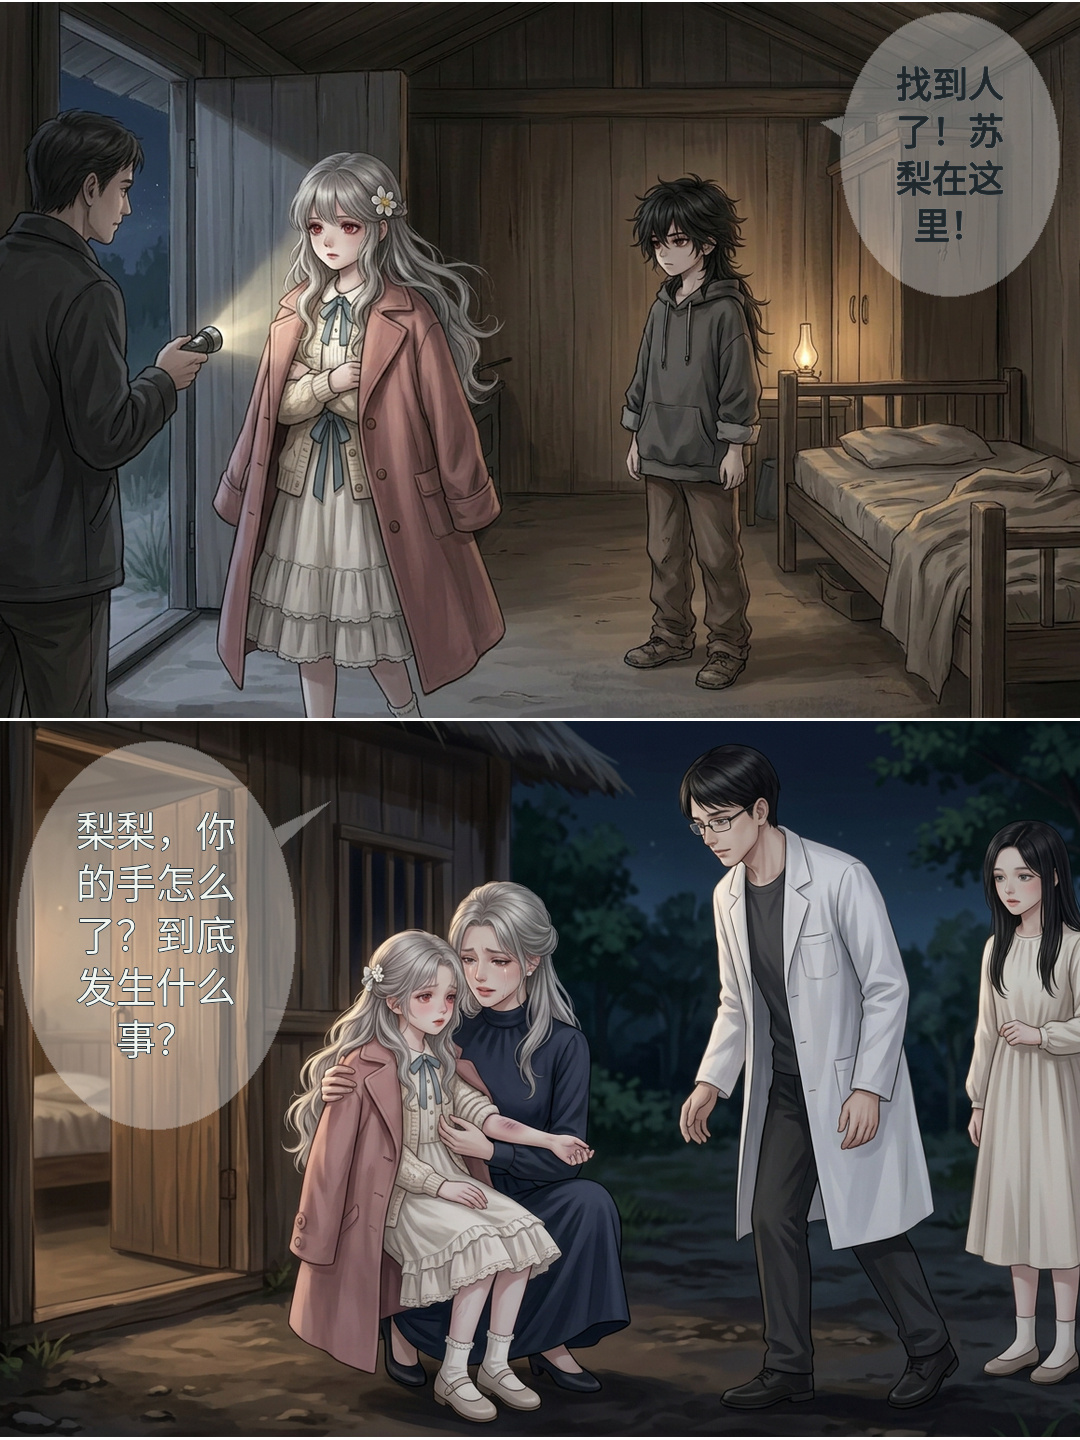
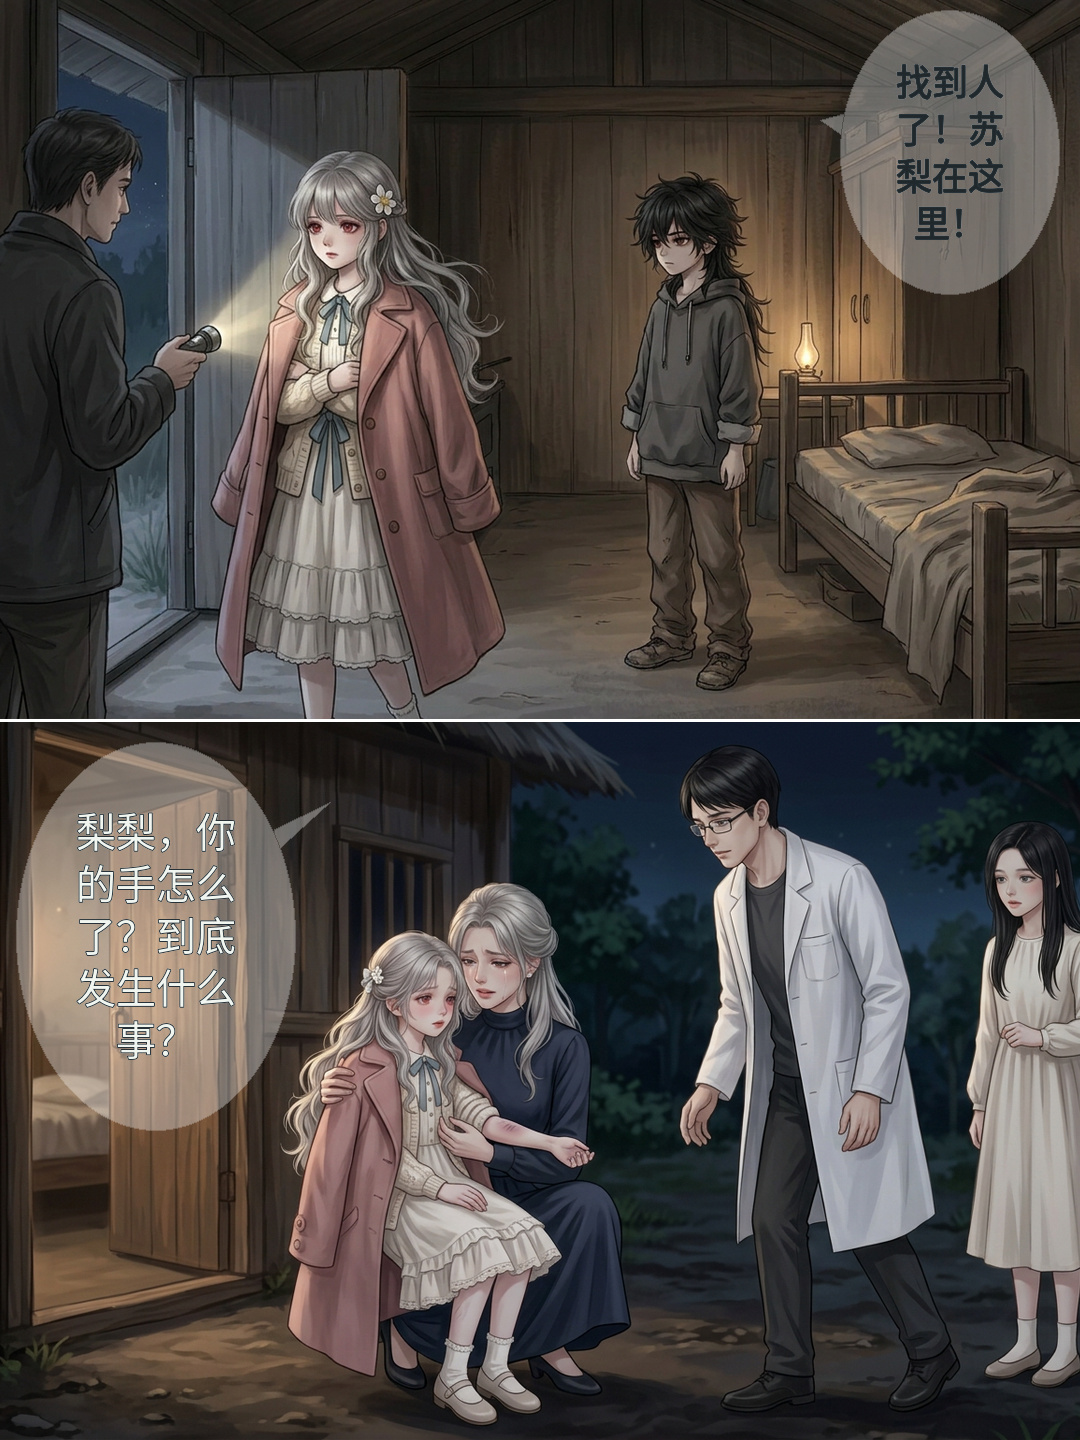
第八轮：P005/P006/P012满幅消余白（0新模型调用）；登记填满指示与待确认重出批次

diff --git a/漫画改编/开篇修订/第002话/制作成果/画内贴字-v5-续/看图说明.md b/漫画改编/开篇修订/第002话/制作成果/画内贴字-v5-续/看图说明.md
@@ -10,21 +10,21 @@ PAGE-001 仍缺 PANEL-001-02（前世回忆造型/口径未定），故本集不
 | 页 | 行结构（高/插入） | 贴字与尾巴 |
 |---|---|---|
 | P004 | 470/470/494 三条全幅 | r1 对白椭圆右上水面，尾指黑发女孩；r2 右上水面，尾指白发女孩；r3 中上屋舍天空，尾指右侧女孩 |
-| P005 | 716×2 全幅 | 两块旁白小矩形均左上林路留空处；上下各约1px结构留白 |
-| P006 | 660×2 全幅 | r1 对白椭圆两人之间林路上空，尾指男孩发顶；r2 内心小矩形居中缝（左缘贴男孩发梢、不遮脸），思点指女孩 |
+| P005 | 719+718 满幅 | 两块旁白小矩形均左上林路留空处；第八轮行高填满1440，无余白 |
+| P006 | 719+718 满幅 | r1 对白椭圆两人之间林路上空，尾指男孩发顶；r2 内心小矩形居中缝（左缘贴男孩发梢、不遮脸），思点指女孩；第八轮填满1440 |
 | P007 | 300 插入条 `[332,22,415,255]` + 715 全幅 | r1 左白边浮字（无泡，护插入条内捏衣双手）；r2 对白椭圆右上林地，尾指男孩 |
 | P008 | 470/470/494 全幅 | r1 旁白矩形右上柜墙；r2 对白椭圆左窗灶，尾指坐床女孩；r3 对白椭圆左列门窗（34号），尾指女孩 |
 | P009 | 340 插入条 `[350,77,380,185]` + 715 全幅 | r1 左白边浮字（无泡，护递接双手/薯/糖）；r2 对白椭圆左列窗灶，尾指跪地男孩肩背 |
 | P010 | 715 全幅 + 370 插入条 `[360,45,360,280]` | r1 两对白：问句单行右上柜顶、尾指女孩；答句左灶台；r2 右白边浮字（护插入条内触额手），泡缘轻搭插入条右缘床柱（无人） |
 | P011 | 560 插入条 `[284,88,512,384]` + 480 插入条 `[276,0,528,480]` | r1 左白边旁白+内心两块（护守夜女孩脸）；r2 右白边对白浮字（护卧床男孩），泡缘轻搭插入条右缘枕被（无人） |
-| P012 | 716×2 全幅 | r1 对白椭圆右上柜墙、尾指搜人者；r2 对白椭圆左列门屋、尾指医生（避淤痕手臂与抱持手） |
+| P012 | 719+718 满幅 | r1 对白椭圆右上柜墙、尾指搜人者；r2 对白椭圆左列门屋、尾指医生（避淤痕手臂与抱持手）；第八轮填满1440 |
 
 ## 已知妥协（创作者可推翻）
 
 1. 插入条行（P007r1、P009r1、P010r2、P011r1/r2）文字浮在白边、无气泡底：条内是手部/脸部特写，任何泡都会压到保护对象；归属靠角色色与相邻格交代。
 2. P010r2、P011r2 白边泡缘与插入条右缘有约 24px 搭边，落在床柱/枕被等无人背景上。
 3. P006r2 内心矩形居中缝，左缘贴男孩发梢轮廓（不遮脸皮肤）；思点落在女孩发顶上方空隙。
-4. 结构留白：P005 上下各约1px、P006 上下约58px、P007/P009/P010/P011 上下约 175–210px（插入条行天然产生），均为整页白条而非裁图。
+4. 结构留白：第八轮已把 P005/P006/P012 行高填满1440（0余白）；P007/P009/P010/P011 上下约 175–210px 留白来自插入条行（仓库内无原全幅图），待创作者确认重出批次后消除。
 5. 三条 470/494 行（P004、P008）气泡按行高压缩字号至 40/34，未放大插入、未裁图。
 6. 本集不是全话：PAGE-001 缺 PANEL-001-02 期间，第002话整体 `check --media` 仍会报缺图；连续阅读需等 001-02 口径决定。
 
@@ -33,3 +33,9 @@ PAGE-001 仍缺 PANEL-001-02（前世回忆造型/口径未定），故本集不
 - 全分辨率实看 9 页两轮（移位前/后各一轮），脸/手/关键道具逐页比对；
 - `试排来源.json` 的 pixel_checks 用人工读图定出的保护区域与贴字矩形求交（violations []），尾巴尖另经目视；
 - 字体与 CH003 同套（正文 NotoSans、苏梨 LXGW WenKai、霍谢山 NotoSerif Bold，OFL）。
+
+## 第八轮修订（2026-10-26，0新模型调用）
+
+- 创作者指示：画面填满、字在画内、少留白；并指出 P004 最下行女孩扭头姿势不自然（脖子角度废）。
+- 已执行：P005/P006/P012 行高改为 719+718（hidden≈16%，界内），三页 0 余白、字全部在画内；回执保护区域按新偏移重核 violations []。
+- 待确认批次（未调用）：P004-03 姿势修正重出＋P007-01/P009-01/P010-02/P011-01/P011-02 五格全幅重出（现仓库仅有小裁图，1.6×上限内填不满行宽）；确认后一次渲染消掉 P007/P009/P010/P011 的白边与留白。
